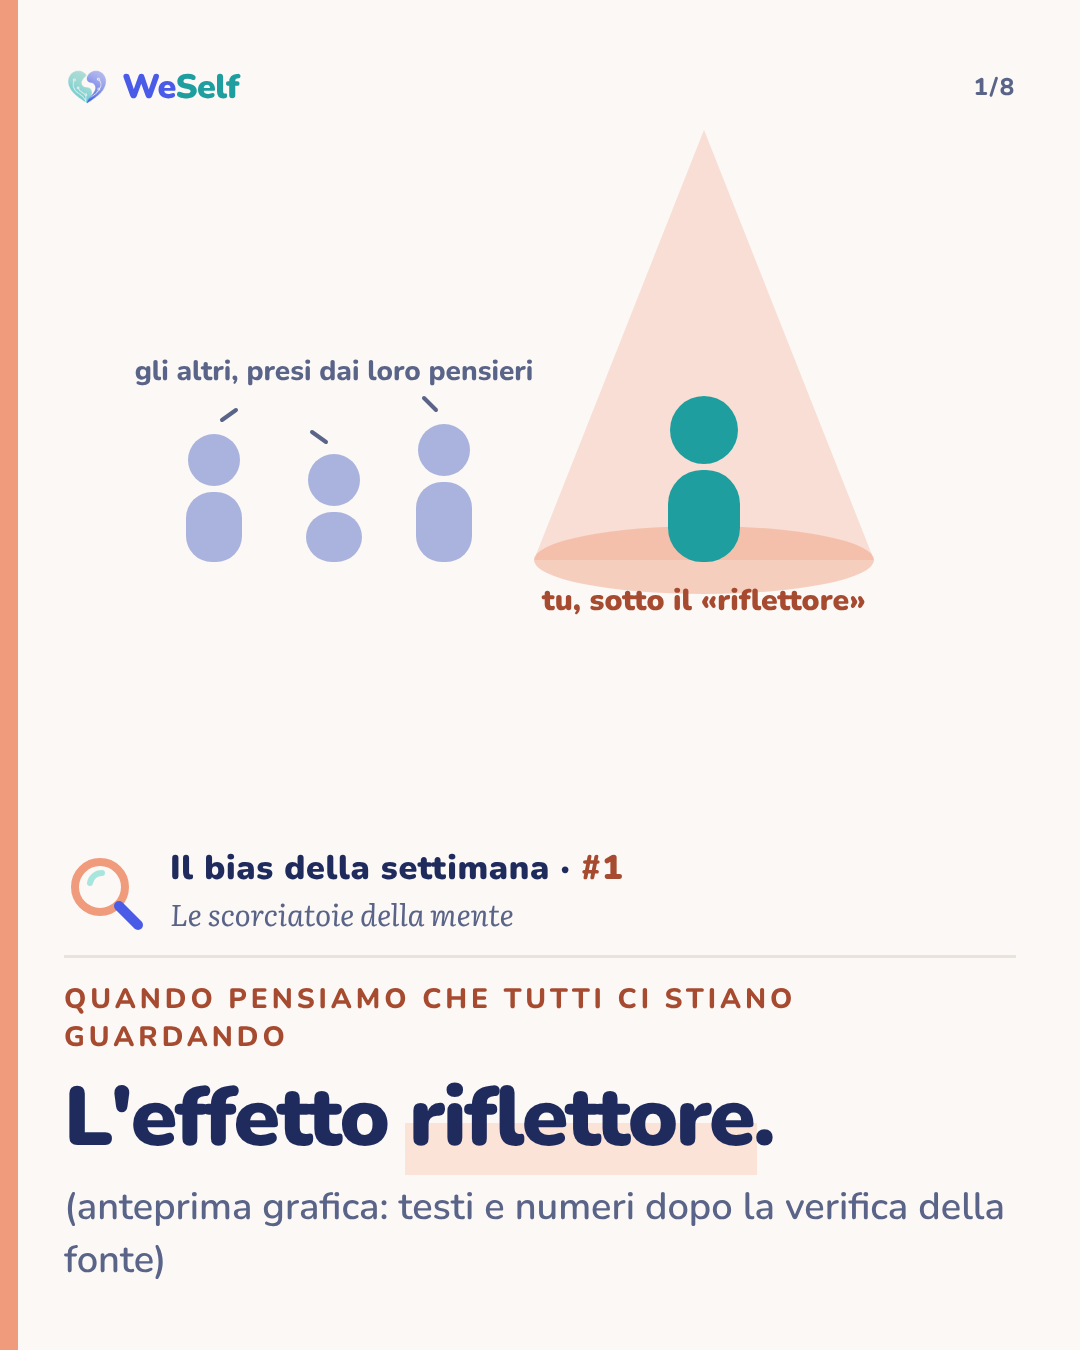
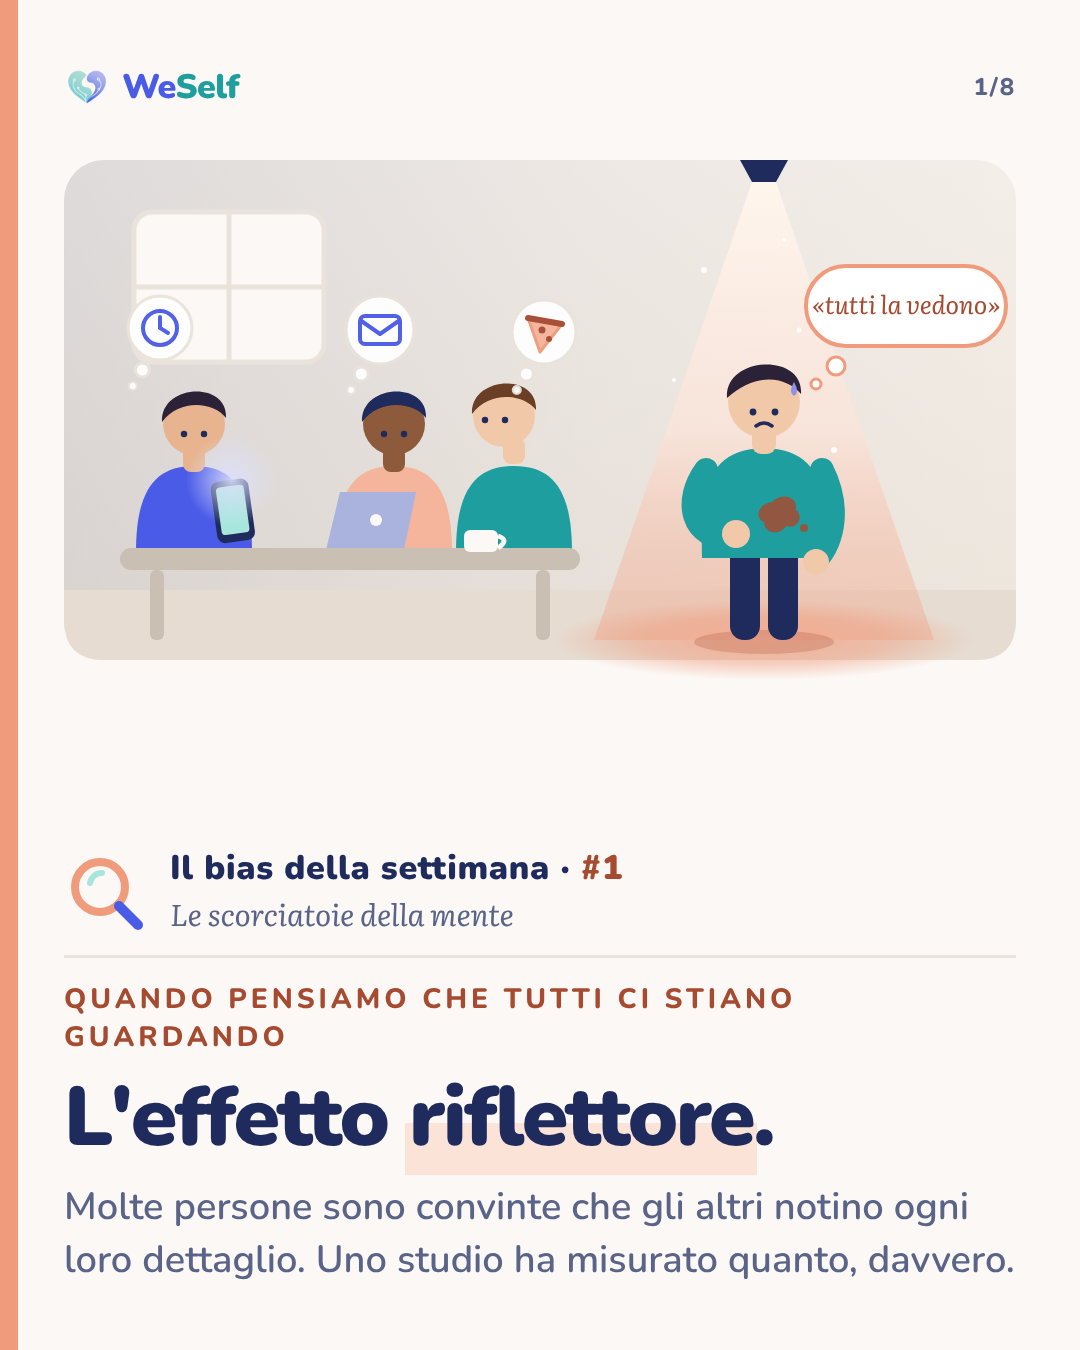
Bias column: richer spotlight-effect cover illustration
Claude-Session: https://claude.ai/code/session_01KYQeP73Zvn8PeP6zhkL2Sc

diff --git a/templates/bias/illustrazioni/riflettore.py b/templates/bias/illustrazioni/riflettore.py
@@ -1,0 +1,77 @@
+# Generates the cover illustration for bias #1 (effetto riflettore) as SVG markup.
+INK="#1E2B5C"
+def seated(x, skin, hair, shirt, look="down", extra=""):
+    # head at (x,300), torso behind table (table top y=430)
+    hx = x + (-10 if look=="left" else 8 if look=="right" else 0)
+    hy = 296 + (8 if look=="down" else 0)
+    g = f'<g>'
+    g += f'<path d="M{x-58} 432 C{x-58} 372 {x-40} 346 {x} 346 C{x+40} 346 {x+58} 372 {x+58} 432 Z" fill="{shirt}"/>'
+    g += f'<rect x="{x-11}" y="{hy+22}" width="22" height="26" rx="8" fill="{skin}"/>'
+    g += f'<circle cx="{hx}" cy="{hy}" r="31" fill="{skin}"/>'
+    g += f'<path d="M{hx-32} {hy-2} C{hx-34} {hy-40} {hx+34} {hy-44} {hx+32} {hy-6} C{hx+20} {hy-22} {hx-14} {hy-26} {hx-32} {hy-2} Z" fill="{hair}"/>'
+    ex = {"down":(0,6),"left":(-9,0),"right":(9,0)}[look]
+    g += f'<circle cx="{hx-10+ex[0]}" cy="{hy+4+ex[1]}" r="3.2" fill="{INK}"/><circle cx="{hx+10+ex[0]}" cy="{hy+4+ex[1]}" r="3.2" fill="{INK}"/>'
+    g += extra + '</g>'
+    return g
+
+def bubble(x, y, r, icon):
+    return (f'<g opacity=".95"><circle cx="{x}" cy="{y}" r="{r}" fill="#FFFFFF" stroke="#EAE3DB" stroke-width="3"/>'
+            f'<circle cx="{x-r*0.55}" cy="{y+r+10}" r="7" fill="#FFFFFF" stroke="#EAE3DB" stroke-width="3"/>'
+            f'<circle cx="{x-r*0.85}" cy="{y+r+26}" r="4" fill="#FFFFFF" stroke="#EAE3DB" stroke-width="2"/>{icon}</g>')
+
+def svg():
+    s = '<svg width="952" height="600" viewBox="0 0 952 600" style="display:block;margin-top:10px;align-self:center">'
+    s += '''<defs>
+<linearGradient id="beam" x1="0" y1="0" x2="0" y2="1"><stop offset="0" stop-color="#FFF6EE" stop-opacity=".95"/><stop offset=".55" stop-color="#FBE3D8" stop-opacity=".75"/><stop offset="1" stop-color="#F09B7C" stop-opacity=".35"/></linearGradient>
+<radialGradient id="pool" cx=".5" cy=".5" r=".5"><stop offset="0" stop-color="#F5B49C" stop-opacity=".95"/><stop offset=".6" stop-color="#F09B7C" stop-opacity=".45"/><stop offset="1" stop-color="#F09B7C" stop-opacity="0"/></radialGradient>
+<radialGradient id="glow" cx=".5" cy=".5" r=".5"><stop offset="0" stop-color="#DDE0FB" stop-opacity=".9"/><stop offset="1" stop-color="#DDE0FB" stop-opacity="0"/></radialGradient>
+<linearGradient id="wall" x1="0" y1="0" x2="0" y2="1"><stop offset="0" stop-color="#F3EEE8"/><stop offset="1" stop-color="#EDE5DC"/></linearGradient>
+<linearGradient id="dim" x1="0" y1="0" x2="1" y2="0"><stop offset="0" stop-color="#1E2B5C" stop-opacity=".10"/><stop offset=".55" stop-color="#1E2B5C" stop-opacity=".03"/><stop offset="1" stop-color="#1E2B5C" stop-opacity="0"/></linearGradient>
+</defs>'''
+    # room
+    s += '<rect x="0" y="40" width="952" height="500" rx="40" fill="url(#wall)"/>'
+    s += '<rect x="0" y="40" width="952" height="500" rx="40" fill="url(#dim)"/>'
+    s += '<rect x="70" y="92" width="190" height="150" rx="18" fill="#FBF8F5" stroke="#EAE3DB" stroke-width="5"/><line x1="165" y1="92" x2="165" y2="242" stroke="#EAE3DB" stroke-width="5"/><line x1="70" y1="167" x2="260" y2="167" stroke="#EAE3DB" stroke-width="5"/>'
+    s += '<path d="M0 470 H952 V500 Q952 540 912 540 H40 Q0 540 0 500 Z" fill="#E6DCD1"/>'
+    # spotlight lamp + beam
+    s += '<path d="M676 40 L724 40 L712 62 L688 62 Z" fill="#1E2B5C"/><rect x="696" y="40" width="8" height="0" fill="#1E2B5C"/>'
+    s += '<path d="M688 62 L712 62 L870 520 L530 520 Z" fill="url(#beam)"/>'
+    s += '<ellipse cx="700" cy="520" rx="210" ry="40" fill="url(#pool)"/>'
+    for (x,y,r) in [(640,150,3),(735,210,2.5),(690,300,2),(770,330,3),(610,260,2),(720,120,2)]:
+        s += f'<circle cx="{x}" cy="{y}" r="{r}" fill="#FFFFFF" opacity=".9"/>'
+    # table + seated people (looking elsewhere)
+    phone = '<g transform="rotate(-8 168 392)"><rect x="150" y="360" width="38" height="62" rx="8" fill="#1E2B5C"/><rect x="155" y="366" width="28" height="48" rx="4" fill="#A8E6DD"/></g><circle cx="168" cy="360" r="46" fill="url(#glow)"/>'
+    laptop = '<path d="M262 430 L276 372 L352 372 L340 430 Z" fill="#AAB3DD"/><circle cx="312" cy="400" r="6" fill="#FBF8F5"/>'
+    s += seated(130, "#E8B48F", "#2B2238", "#4A5BE8", "down", phone)
+    s += seated(330, "#8D5A3B", "#1E2B5C", "#F5B49C", "down", laptop)
+    s += seated(450, "#F2C9A8", "#6B3E26", "#1E9E9E", "left")
+    s += '<rect x="56" y="428" width="460" height="22" rx="11" fill="#C9BFB3"/><rect x="86" y="450" width="14" height="70" rx="6" fill="#C9BFB3"/><rect x="472" y="450" width="14" height="70" rx="6" fill="#C9BFB3"/>'
+    s += '<rect x="400" y="410" width="34" height="22" rx="6" fill="#FBF8F5"/><path d="M434 416 q12 4 0 12" fill="none" stroke="#FBF8F5" stroke-width="5"/>'
+    # their thought bubbles: their own concerns
+    clock = '<circle cx="96" cy="208" r="17" fill="none" stroke="#4A5BE8" stroke-width="4"/><path d="M96 197 V208 L104 213" stroke="#4A5BE8" stroke-width="4" fill="none" stroke-linecap="round"/>'
+    mail = '<rect x="296" y="196" width="40" height="28" rx="5" fill="none" stroke="#4A5BE8" stroke-width="4"/><path d="M296 200 L316 214 L336 200" fill="none" stroke="#4A5BE8" stroke-width="4" stroke-linejoin="round"/>'
+    food = '<path d="M464 198 L498 204 L476 232 Z" fill="#F5B49C" stroke="#F09B7C" stroke-width="3" stroke-linejoin="round"/><path d="M464 198 L498 204" stroke="#A64A30" stroke-width="6" stroke-linecap="round"/><circle cx="478" cy="210" r="3.5" fill="#A64A30"/><circle cx="485" cy="219" r="3" fill="#A64A30"/>'
+    s += bubble(96, 208, 32, clock) + bubble(316, 210, 34, mail) + bubble(480, 212, 32, food)
+    # protagonist in the spotlight, stain on shirt, looking down at it
+    x=700
+    s += f'<ellipse cx="{x}" cy="522" rx="70" ry="12" fill="#A64A30" opacity=".25"/>'
+    s += f'<rect x="{x-34}" y="420" width="30" height="100" rx="14" fill="{INK}"/><rect x="{x+4}" y="420" width="30" height="100" rx="14" fill="{INK}"/>'
+    s += f'<path d="M{x-62} 438 C{x-64} 360 {x-52} 330 {x} 328 C{x+52} 330 {x+64} 360 {x+62} 438 Z" fill="#1E9E9E"/>'
+    s += f'<path d="M{x-58} 350 C{x-80} 380 {x-74} 420 {x-30} 418" fill="none" stroke="#1E9E9E" stroke-width="24" stroke-linecap="round"/>'
+    s += f'<circle cx="{x-28}" cy="414" r="14" fill="#F2C9A8"/>'
+    s += f'<path d="M{x+58} 350 C{x+76} 386 {x+70} 420 {x+52} 440" fill="none" stroke="#1E9E9E" stroke-width="24" stroke-linecap="round"/><circle cx="{x+52}" cy="442" r="13" fill="#F2C9A8"/>'
+    s += f'<path d="M{x+8} 382 c10 -10 26 -6 24 8 c8 6 2 20 -10 16 c-6 10 -22 8 -22 -4 c-10 -4 -6 -18 8 -20z" fill="#A64A30" opacity=".85"/><circle cx="{x+40}" cy="408" r="4" fill="#A64A30" opacity=".85"/>'
+    s += f'<rect x="{x-12}" y="300" width="24" height="34" rx="9" fill="#F2C9A8"/>'
+    s += f'<circle cx="{x}" cy="282" r="36" fill="#F2C9A8"/>'
+    s += f'<path d="M{x-37} 278 C{x-40} 236 {x+40} 232 {x+37} 274 C{x+24} 258 {x-6} 250 {x-37} 278 Z" fill="#2B2238"/>'
+    s += f'<circle cx="{x-11}" cy="292" r="3.4" fill="{INK}"/><circle cx="{x+11}" cy="292" r="3.4" fill="{INK}"/>'
+    s += f'<path d="M{x-8} 306 q8 -6 16 0" fill="none" stroke="{INK}" stroke-width="3.5" stroke-linecap="round"/>'
+    s += f'<path d="M{x+30} 262 q6 10 0 14 q-6 -4 0 -14z" fill="#8B93E8"/>'
+    # protagonist thought bubble
+    s += ('<g><rect x="742" y="146" width="200" height="80" rx="40" fill="#FFFFFF" stroke="#F09B7C" stroke-width="4"/>'
+          '<circle cx="772" cy="246" r="9" fill="#FFFFFF" stroke="#F09B7C" stroke-width="3"/><circle cx="752" cy="264" r="5" fill="#FFFFFF" stroke="#F09B7C" stroke-width="3"/>'
+          '<text x="842" y="194" text-anchor="middle" font-family="Literata" font-style="italic" font-size="25" fill="#A64A30">«tutti la vedono»</text></g>')
+    s += '</svg>'
+    return s
+if __name__ == "__main__":
+    print(svg())
